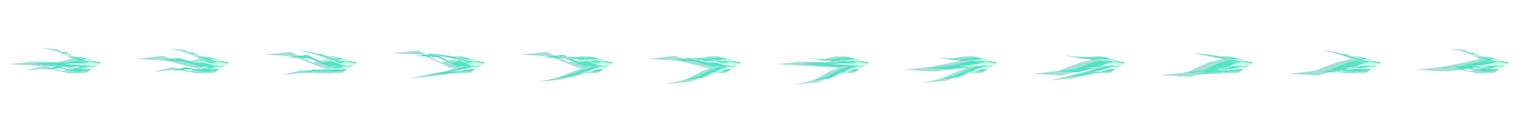
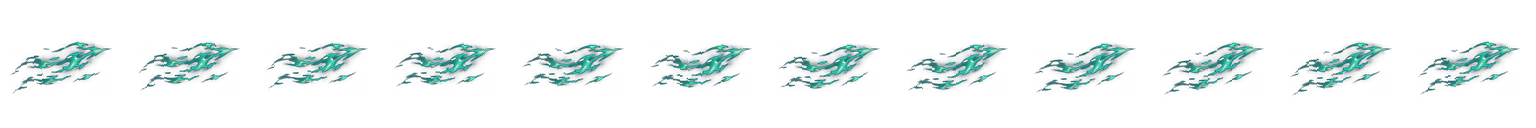
망계의 업화: 승인 시안 기반 날개와 입 VFX 보정

Changed region(s): [[0.0, 0.3125, 1.0, 0.7188], [0.9062, 0.6875, 0.9375, 0.7188]]

diff --git a/src/win/Renderer.cpp b/src/win/Renderer.cpp
@@ -788,14 +788,27 @@ const SoulfireAnchors kSoulfireAnchors[] = {
     {{60,88},{72,123},{196,116}}, {{52,94},{75,129},{194,117}},
     {{65,112},{83,140},{199,151}}, {{48,85},{68,131},{193,123}},
 };
+
+// Tail tips in the same source cells as kSoulfireAnchors.
+const Vec2 kSoulfireTailTips[] = {
+    {26,205}, {12,207}, {28,200}, {26,193}, {23,201}, {21,184},
+    {42,211}, {19,127}, {16,127}, {38,135}, {42,135}, {41,135},
+    {29,136}, {28,135}, {28,135}, {38,142}, {27,134}, {28,133},
+    {26,134}, {28,135}, {28,133}, {28,134}, {38,136}, {20,170},
+    {20,160}, {17,180}, {19,172}, {18,183},
+};
+static_assert(std::size(kSoulfireTailTips) == std::size(kSoulfireAnchors));
 }
 
 void Renderer::drawSoulfireBodyVfx(Graphics& g, const DragonActor& d, const Sprites& sprites,
                                    const std::string& key, int frame, Vec2 center, float size,
                                    bool flip, bool front) {
     const SkillCast& cast = *d.skillCast;
-    if (frame < 8 || frame >= 8 + static_cast<int>(std::size(kSoulfireAnchors))) return;
-    const SoulfireAnchors& anchors = kSoulfireAnchors[frame - 8];
+    const Vec2 earlyMouth[] = {{185,157}, {193,151}, {198,131}, {187,158},
+                                {213,157}, {198,136}, {194,157}, {188,154}};
+    if (frame < 0 || frame >= 8 + static_cast<int>(std::size(kSoulfireAnchors))) return;
+    const bool early = frame < 8;
+    const SoulfireAnchors& anchors = kSoulfireAnchors[std::max(0, frame - 8)];
     const float sign = flip ? -1.f : 1.f;
     const float unit = size / 256.f;
     const auto worldPoint = [&](Vec2 p) {
@@ -807,26 +820,36 @@ void Renderer::drawSoulfireBodyVfx(Graphics& g, const DragonActor& d, const Spri
     const float wingAlpha = std::clamp((launch - .59f) / .25f, 0.f, 1.f) *
                             std::clamp(1.f - (flight - kSoulfireBreathDuration) / .19f, 0.f, 1.f);
     const Sheet mote = sprites.fxSheet(key, "soulfire_mote");
-    if (!front && wingAlpha > 0.f) {
-        const Sheet wing = sprites.fxSheet(key, "soulfire_wing");
+    if (!early && wingAlpha > 0.f) {
+        const Sheet wing = sprites.fxSheet(key, front ? "soulfire_wing_front" : "soulfire_wing");
         const float speed = d.stats.speed * cfg::kIdleFlySpeed *
                             (d.hasteTime > 0.f ? 1.f + d.hasteSpeed : 1.f);
-        const float stretch = std::clamp(speed / 230.f, .65f, 1.8f);
+        const float stretch = std::clamp(speed / 230.f, .75f, 1.45f);
+        if (front && wing.bmp) {
+            const Vec2 flank = worldPoint({(anchors.tornMembrane.x + anchors.mouth.x) * .5f - 19.f,
+                                          (anchors.tornMembrane.y + anchors.mouth.y) * .5f + 15.f});
+            const float extent = size * .62f;
+            markRegion(RectF(flank.x - extent * .5f, flank.y - extent * .5f, extent, extent), 3.f);
+            drawSheetFrame(g, wing, animFrame(age, 20.f, wing.frames, true),
+                           flank.x, flank.y, extent, flip, 0.f, wingAlpha * .56f);
+        }
         for (int i = 0; i < 2; ++i) {
-            const Vec2 attachment = i == 0 ? anchors.wingTip : anchors.tornMembrane;
-            const Vec2 anchor = worldPoint(attachment + Vec2{7.f, 0.f});
-            const float extent = size * (i == 0 ? .63f : .45f);
-            if (wing.bmp) {
+            const Vec2 wingRoot = anchors.wingTip * .65f + anchors.tornMembrane * .35f;
+            const Vec2 attachment = i == 0 ? wingRoot : kSoulfireTailTips[frame - 8];
+            const Vec2 anchor = worldPoint(attachment + Vec2{i == 0 ? 24.f : 36.f, 0.f});
+            const float extent = size * (i == 0 ? .80f : .62f);
+            if (!front && wing.bmp) {
                 markRegion(RectF(anchor.x - extent * stretch, anchor.y - extent * .5f,
                                  extent * stretch * 2.f, extent), 3.f);
                 const auto state = g.Save();
                 g.TranslateTransform(anchor.x, anchor.y);
-                g.ScaleTransform(stretch, 1.f);
+                g.ScaleTransform(stretch, i == 0 ? 1.f : .74f);
                 drawSheetFrame(g, wing, animFrame(age + i * .17f, 20.f, wing.frames, true),
-                               -sign * .28125f * extent, 0.f, extent, flip, 0.f, wingAlpha * .87f);
+                               -sign * .34f * extent, 0.f, extent, flip, 0.f,
+                               wingAlpha * (i == 0 ? .95f : .76f));
                 g.Restore(state);
             }
-            for (int j = 0; mote.bmp && j < 5; ++j) {
+            for (int j = 0; front && mote.bmp && j < 5; ++j) {
                 const float phase = std::fmod(age * (2.3f + .18f * j) + j * .218f + i * .37f, 1.f);
                 const Vec2 ember = anchor + Vec2{-sign * extent * stretch * phase,
                                                 extent * phase * .22f * std::sin(j * 2.4f + age * 7.f)};
@@ -840,36 +863,23 @@ void Renderer::drawSoulfireBodyVfx(Graphics& g, const DragonActor& d, const Spri
         }
     }
 
-    if (flight >= 0.f || !mote.bmp) return;
-    const Vec2 mouth = worldPoint(anchors.mouth);
-    const float gather = std::clamp((launch - .56f) / .44f, 0.f, 1.f);
-    if (front && gather > .32f) {
-        const float compression = (gather - .32f) / .68f;
-        const float radius = size * (.028f - compression * .014f);
-        fillCircle(g, mouth.x, mouth.y, radius * 2.f,
-                   Color(static_cast<BYTE>(112.f * compression), 42, 244, 198));
-        fillCircle(g, mouth.x, mouth.y, radius,
-                   Color(static_cast<BYTE>(245.f * compression), 189, 255, 231));
-    }
-    for (int i = 0; i < 10; ++i) {
-        const float phase = std::clamp(gather * 1.38f - i * .041f, 0.f, 1.f);
-        const float angle = phase * 8.9f + i * 2.4f;
-        if ((std::sin(angle) >= 0.f) != front) continue;
-        const float fade = std::min({phase * 12.f, (1.f - phase) * 13.f, 1.f});
-        if (fade <= 0.f) continue;
-        const float radius = size * (.05f + (1.f - phase) * .22f);
-        const Vec2 spark = mouth + Vec2{sign * (std::cos(angle) * radius - radius * .61f),
-                                       std::sin(angle) * radius * .62f};
-        const auto state = g.Save();
-        g.TranslateTransform(spark.x, spark.y);
-        g.ScaleTransform(sign, 1.f);
-        g.RotateTransform(angle * 180.f / kPi + 90.f);
-        const float extent = size * (.18f + phase * .06f);
-        markRegion(RectF(spark.x - extent * .5f, spark.y - extent * .5f, extent, extent), 2.f);
-        drawSheetFrame(g, mote, animFrame(age + i * .04f, 20.f, mote.frames, true),
-                       0.f, 0.f, extent, false, 0.f, fade * (.68f + phase * .32f));
-        g.Restore(state);
-    }
+    const Vec2 mouth = worldPoint(early ? earlyMouth[frame] : anchors.mouth);
+    const float gather = std::clamp((launch - .10f) / .90f, 0.f, 1.f);
+    const float release = std::clamp(1.f - flight / .13f, 0.f, 1.f);
+    if (gather <= 0.f || release <= 0.f || (front && flight >= 0.f)) return;
+
+    const Sheet layer = sprites.fxSheet(key, front ? "soulfire_core" : "soulfire_orbit");
+    if (!layer.bmp) return;
+    const float extent = size * (front ? (.10f + .26f * gather) : (.66f - .22f * gather));
+    const float opacity = release * std::min(gather * (front ? 1.55f : 3.5f), 1.f);
+    markRegion(RectF(mouth.x - extent, mouth.y - extent, extent * 2.f, extent * 2.f), 3.f);
+    const auto state = g.Save();
+    g.TranslateTransform(mouth.x, mouth.y);
+    g.ScaleTransform(sign, 1.f);
+    if (!front) g.RotateTransform(270.f * gather);
+    drawSheetFrame(g, layer, animFrame(age, 20.f, layer.frames, true),
+                   0.f, 0.f, extent, false, 0.f, opacity);
+    g.Restore(state);
 }
 
 void Renderer::drawDragon(Graphics& g, const DragonActor& d, const Sprites& sprites, float time, float x, float y,
@@ -1412,20 +1422,29 @@ void Renderer::drawSoulfireBreath(Graphics& g, const World& w, const Sprites& sp
         g.DrawLine(&streak, tail.x, tail.y, tip.x, tip.y);
     }
 
+    const float ignition = std::clamp(age / .065f, 0.f, 1.f);
+    const float fade = std::clamp((kSoulfireBreathDuration - age) / .17f, 0.f, 1.f);
+    const float pulse = .5f + .5f * std::cos(age * 11.f);
+    const float extent = body * (.34f + ignition * .31f);
+    markRegion(RectF(mouth.x - extent, mouth.y - extent, extent * 2.f, extent * 2.f), 3.f);
+    const auto emission = g.Save();
+    g.TranslateTransform(mouth.x, mouth.y);
+    g.RotateTransform(angle);
+    g.ScaleTransform(1.f, sign);
     const Sheet crown = sprites.fxSheet(species.key, "soulfire_crown");
-    if (crown.bmp) {
-        const float ignition = std::clamp(age / .085f, 0.f, 1.f);
-        const float fade = std::clamp((kSoulfireBreathDuration - age) / .17f, 0.f, 1.f);
-        const float extent = body * (.29f + ignition * .23f);
-        markRegion(RectF(mouth.x - extent * .5f, mouth.y - extent * .5f, extent, extent), 3.f);
-        const auto crownTransform = g.Save();
-        g.TranslateTransform(mouth.x, mouth.y);
-        g.RotateTransform(angle);
-        g.ScaleTransform(1.f, sign);
-        drawSheetFrame(g, crown, animFrame(age, 30.f, crown.frames, true),
-                       0.f, 0.f, extent, false, 0.f, fade * (.68f + ignition * .32f));
-        g.Restore(crownTransform);
-    }
+    if (crown.bmp)
+        drawSheetFrame(g, crown, animFrame(age, 20.f, crown.frames, true),
+                       -.06f * extent, 0.f, extent, false, 0.f, fade * (.76f + .24f * pulse));
+    const Sheet fragments = sprites.fxSheet(species.key, "soulfire_fragments");
+    if (fragments.bmp)
+        drawSheetFrame(g, fragments, animFrame(age, 20.f, fragments.frames, true),
+                       extent * (.18f + .12f * pulse), 0.f, extent * .93f, false, 0.f,
+                       fade * ignition * (.48f + .34f * (1.f - pulse)));
+    const Sheet core = sprites.fxSheet(species.key, "soulfire_core");
+    if (core.bmp)
+        drawSheetFrame(g, core, animFrame(age, 20.f, core.frames, true), 0.f, 0.f,
+                       body * (.28f + .10f * pulse), false, 0.f, fade * (.60f + .40f * pulse));
+    g.Restore(emission);
 }
 
 void Renderer::drawDotZones(Graphics& g, const World& w, const Sprites& sprites, float time) {

diff --git a/tools/make_soulfire_vfx.py b/tools/make_soulfire_vfx.py
@@ -1,4 +1,5 @@
 """Draw the three original Nether Soulfire RGBA sprite strips."""
+from argparse import ArgumentParser
 from math import cos, pi, sin
 from pathlib import Path
 
@@ -26,10 +27,31 @@ def flame(draw, root, length, width, angle, curl):
         draw.polygon([point(u, v) for u, v in coords], fill=color)
 
 
-def wing(draw, t):
-    flame(draw, (100, 64), 91, 6, pi, 11*sin(t))
-    flame(draw, (95, 67), 69, 4, pi-.15, 7*sin(t+1.7))
-    flame(draw, (92, 61), 51, 2.5, pi+.16, 5*cos(t))
+def wake_art(board, box, width):
+    """Extract the teal strokes from the flattened B-panel layer examples."""
+    crop = board.crop(box).convert("RGB")
+    art = Image.new("RGBA", crop.size)
+    for y in range(crop.height):
+        for x in range(crop.width):
+            r, g, b = crop.getpixel((x, y))
+            strength = min(1, max(0, (g - r - 4) / 27))
+            alpha = strength * min(1, max(0, (g - 21) / 90))
+            if alpha:
+                art.putpixel((x, y), (r, g, b, round(alpha * 255)))
+    return art.resize((width, round(width * crop.height / crop.width)), Image.Resampling.LANCZOS)
+
+
+def wake_strip(art, name, left, middle, anchored_right):
+    strip = Image.new("RGBA", (CELL * FRAMES, CELL))
+    for i in range(FRAMES):
+        phase = 2 * pi * i / FRAMES
+        for x in range(art.width):
+            u = x / (art.width - 1)
+            free_end = 1 - u if anchored_right else abs(2 * u - 1)
+            offset = round(5 * free_end * sin(phase - 4 * free_end))
+            top = middle - art.height // 2 + offset
+            strip.paste(art.crop((x, 0, x + 1, art.height)), (i * CELL + left + x, top))
+    strip.save(OUT / f"fx_soulfire_{name}.png", optimize=True)
 
 
 def mote(draw, t):
@@ -37,22 +59,34 @@ def mote(draw, t):
     flame(draw, (53, 65), 13, 2.2, .15, 0)
 
 
-def crown(draw, t):
-    for i, angle in enumerate((-.99, -.57, -.28, .21, .49, .87)):
-        motion = sin(t + i*1.81)
-        length = (34 if i in (0, 5) else 46) + 7*motion
-        flame(draw, (64, 64), length, 4.6, angle + .13*motion, 6*cos(t+i))
-    flame(draw, (61, 64), 33, 7, 0, 1.5*sin(t))
-
-
 def main():
-    for name, render in (("wing", wing), ("mote", mote), ("crown", crown)):
-        strip = Image.new("RGBA", (CELL * FRAMES, CELL))
-        for i in range(FRAMES):
-            frame = Image.new("RGBA", (CELL*SS, CELL*SS))
-            render(ImageDraw.Draw(frame), 2*pi*i/FRAMES)
-            strip.paste(frame.resize((CELL, CELL), Image.Resampling.LANCZOS), (CELL*i, 0))
-        strip.save(OUT / f"fx_soulfire_{name}.png", optimize=True)
+    parser = ArgumentParser(description=__doc__)
+    parser.add_argument("concept", type=Path, help="Approved 1672×941 A/B/C concept board")
+    parser.add_argument("mouth", type=Path, help="Approved 1536×1024 mouth concept board")
+    args = parser.parse_args()
+    with Image.open(args.concept) as board:
+        if board.size != (1672, 941):
+            parser.error("expected the original 1672×941 concept board")
+        rear = wake_art(board, (592, 643, 757, 724), 106)
+        front = wake_art(board, (778, 651, 930, 721), 102)
+    wake_strip(rear, "wing", 7, 68, True)
+    wake_strip(front, "wing_front", 13, 64, False)
+    with Image.open(args.mouth) as board:
+        if board.size != (1536, 1024):
+            parser.error("expected the original 1536×1024 mouth concept board")
+        for name, box, width, left, middle in (
+            ("orbit", (211, 627, 308, 702), 96, 16, 64),
+            ("core", (369, 631, 431, 694), 64, 32, 63),
+            ("crown", (484, 615, 586, 705), 108, 2, 66),
+            ("fragments", (625, 632, 716, 697), 102, 14, 64),
+        ):
+            wake_strip(wake_art(board, box, width), name, left, middle, False)
+    strip = Image.new("RGBA", (CELL * FRAMES, CELL))
+    for i in range(FRAMES):
+        frame = Image.new("RGBA", (CELL*SS, CELL*SS))
+        mote(ImageDraw.Draw(frame), 2*pi*i/FRAMES)
+        strip.paste(frame.resize((CELL, CELL), Image.Resampling.LANCZOS), (CELL*i, 0))
+    strip.save(OUT / "fx_soulfire_mote.png", optimize=True)
 
 
 if __name__ == "__main__":

diff --git a/src/win/Sprites.cpp b/src/win/Sprites.cpp
@@ -394,6 +394,10 @@ void Sprites::loadFxSheets(const std::filesystem::path& dir, const SpeciesDef& d
             load("soulfire_beam", 256);
             load("soulfire_impact", 256);
             load("soulfire_wing", 128);
+            load("soulfire_wing_front", 128);
+            load("soulfire_orbit", 128);
+            load("soulfire_core", 128);
+            load("soulfire_fragments", 128);
             load("soulfire_mote", 128);
             load("soulfire_crown", 128);
             for (int variant = 0; variant < kSoulfireFlameVariants; ++variant)

diff --git a/docs/STATE.md b/docs/STATE.md
@@ -20,7 +20,7 @@
 | 이전 병합 | 그림 캐시 #105, 망령룡 영혼·궁극기 #106 |
 | 알려진 문제 | **1건** — [known-issues.md](known-issues.md) 4번 `make_sheet.py` 가 칸을 꽉 채우는 그림에 안 맞는다(우회 있음). 1~3번은 고쳤다 ([#77](https://github.com/1rkdwnsgh1/dragon-tower/issues/77) → #82, [#78](https://github.com/1rkdwnsgh1/dragon-tower/issues/78) → #80, [#79](https://github.com/1rkdwnsgh1/dragon-tower/issues/79) → #83). **Windows 확인 59~78번과 그림자 가르기 타격 프레임 4개가 남아 있다** |
 
-- 망계의 업화는 V5 Ground Continuity를 바탕으로 [날개 잔류흔·입 소용돌이·분출구 왕관](characters/revenant-dragon-progress.md#nether-soulfire-wing-mouth)을 추가했다. [지면 연결 기록](characters/revenant-dragon-progress.md#망계의-업화-v5-지속-화염-연결)과 [Windows 실전 확인 항목](windows-checklist.md#망계의-업화)을 참고한다.
+- 망계의 업화는 V5 Ground Continuity 위에 [날개 B안과 입 A+B안](characters/revenant-dragon-progress.md#nether-soulfire-wing-mouth)을 적용했다. 제작 수치와 Windows 자동 캡처 대조를 같은 문서에 기록했다. [지면 연결 기록](characters/revenant-dragon-progress.md#망계의-업화-v5-지속-화염-연결)과 [Windows 실전 확인 항목](windows-checklist.md#망계의-업화)을 참고한다.
 - 망령룡 `skill.9` 망계의 업화에 전용 본체를 대기 골격 크기에 맞춰 1.26배 보정하고, 바닥과 입 앵커를 본체와 동일한 변환에 맞췄다. V4의 크기 연동과 지속 화염 밀도를 유지한다. 도약·착지는 각각 0.4초다. [임시 수치와 에셋](characters/revenant-dragon-skills-v1.md#망계의-업화-구현-검수값)과 [Windows 체크리스트](windows-checklist.md#망계의-업화)를 참고한다.
 - 제작 중인 캐릭터 모션과 스킬은 [미리보기 도구](character-pipeline.md#모션과-스킬-미리보기)에서 확인할 수 있다.
 - 저주의 안개 V2(#101)는 PNG 50칸을 장판 수명 5초에 맞춰 재생한다. #99·#100에서 같은 장판의 저주 중첩과 적 머리 위 표시를 통합했다. [망령룡 제작 진행사항](characters/revenant-dragon-progress.md)
